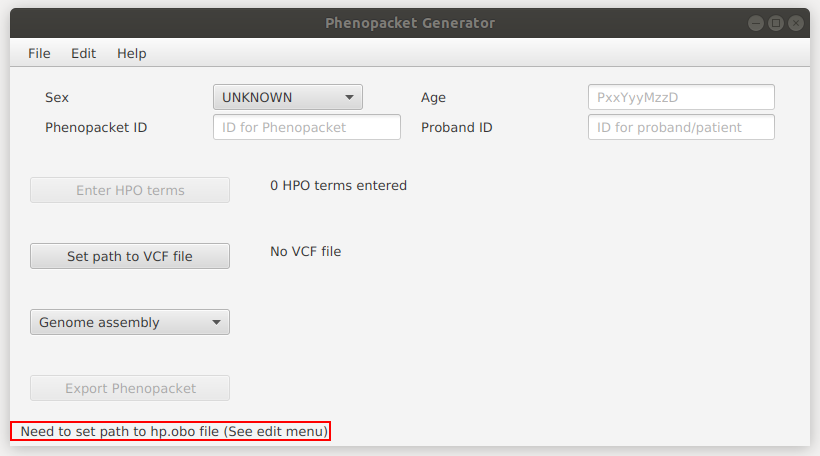
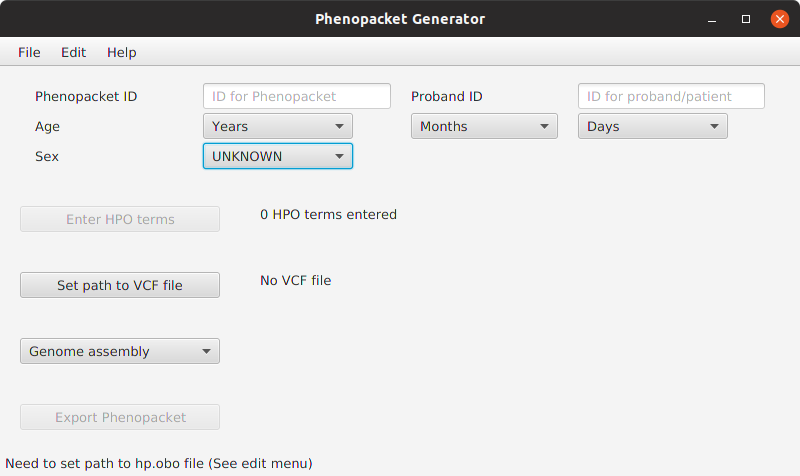
documentation

diff --git a/src/main/java/org/jax/phenopacketgenerator/gui/MainController.java b/src/main/java/org/jax/phenopacketgenerator/gui/MainController.java
@@ -270,8 +270,6 @@ public class MainController {
             return;
         }
         PhenopacketExporter exporter = new PhenopacketExporter(pgmodel);
-        System.out.println("[TODO] Save complete Phenopacket to this file: " + f.getAbsolutePath());
-
         exporter.export(f);
         String abspath = f.getAbsolutePath();
         int L = abspath.length();

diff --git a/README.md b/README.md
@@ -49,7 +49,8 @@ the data before saving the file.
 The following fields can be entered.
 
 * Sex (optional)
-* Age (optional). Enter age information using the  [ISO 8601](https://en.wikipedia.org/wiki/ISO_8601) format, 
+* Age (optional). Use one or more of the pull down menus to enter the age in years, months, or days. The
+age information will be stored  using the  [ISO 8601](https://en.wikipedia.org/wiki/ISO_8601) format, 
 e.g., P42Y for 42 years, P12Y2M3D for 12 years, 2 months, and 3 days
 * Phenopacket ID (required). This ID cannot be empty but can be any user-defined string
 * Proband ID (required). This ID cannot be empty but can be any user-defined string
